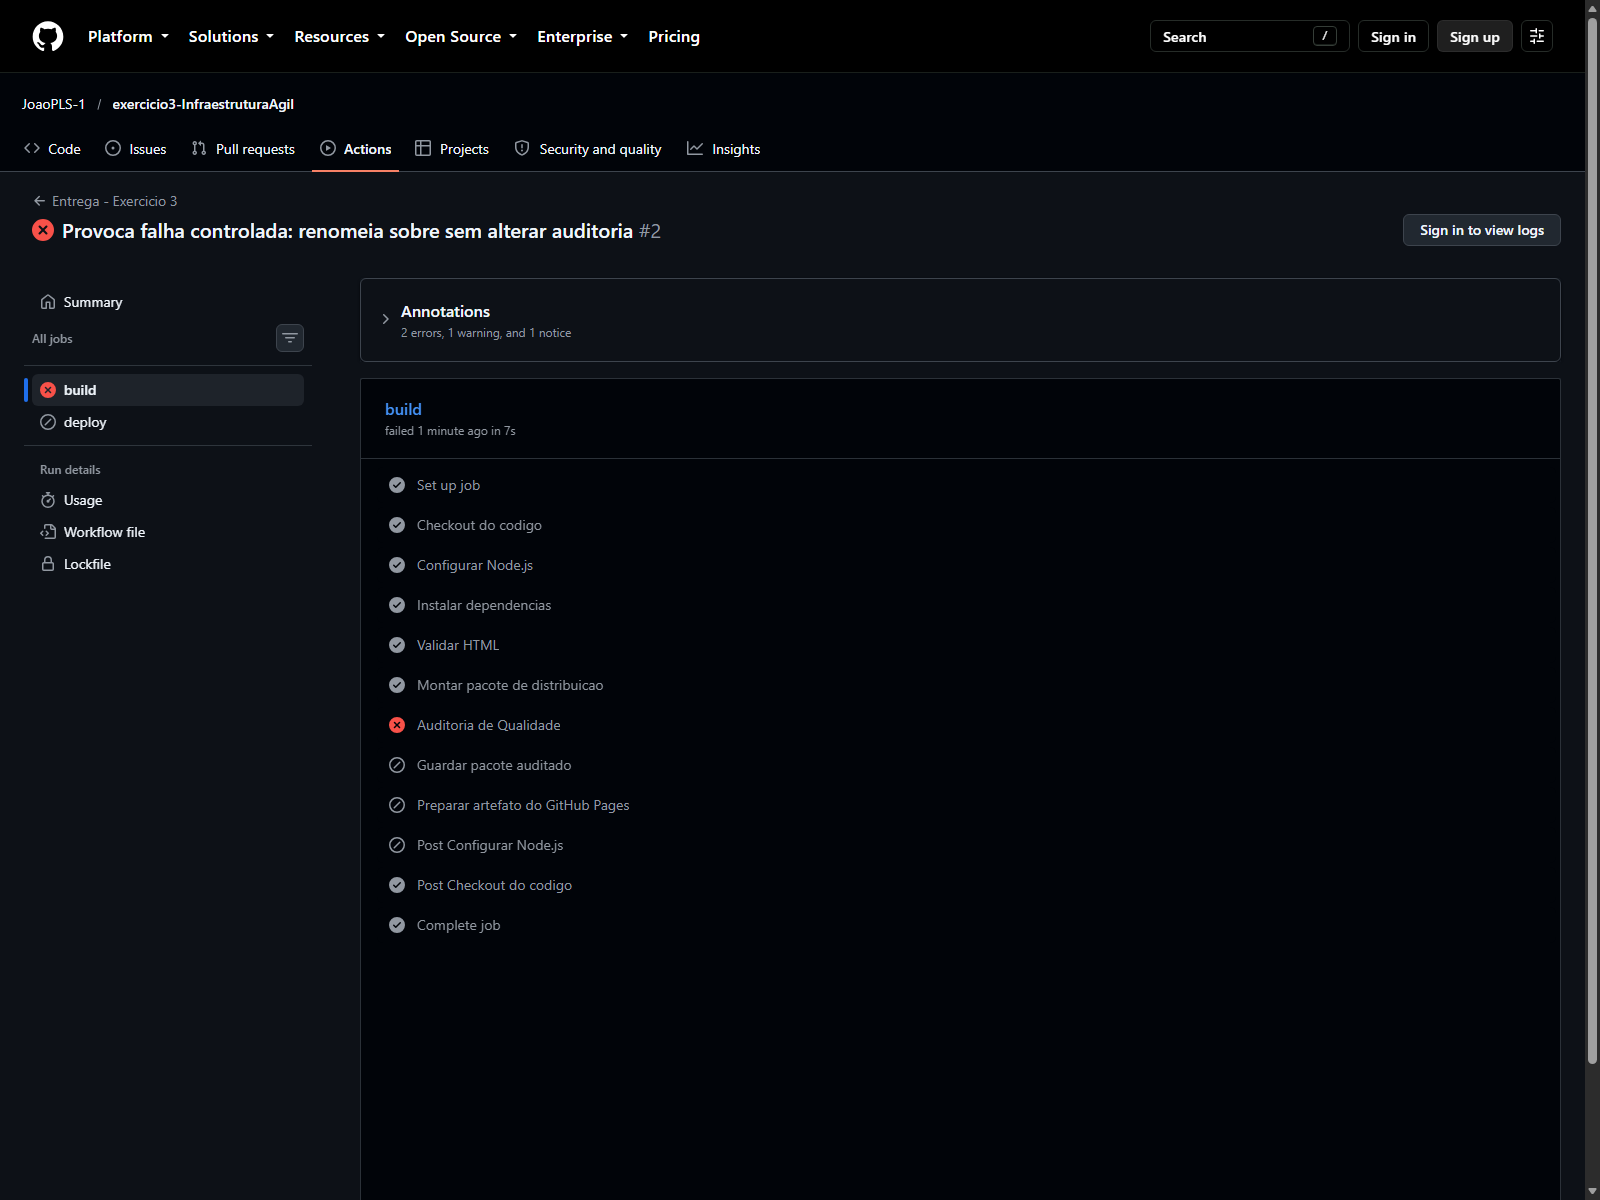
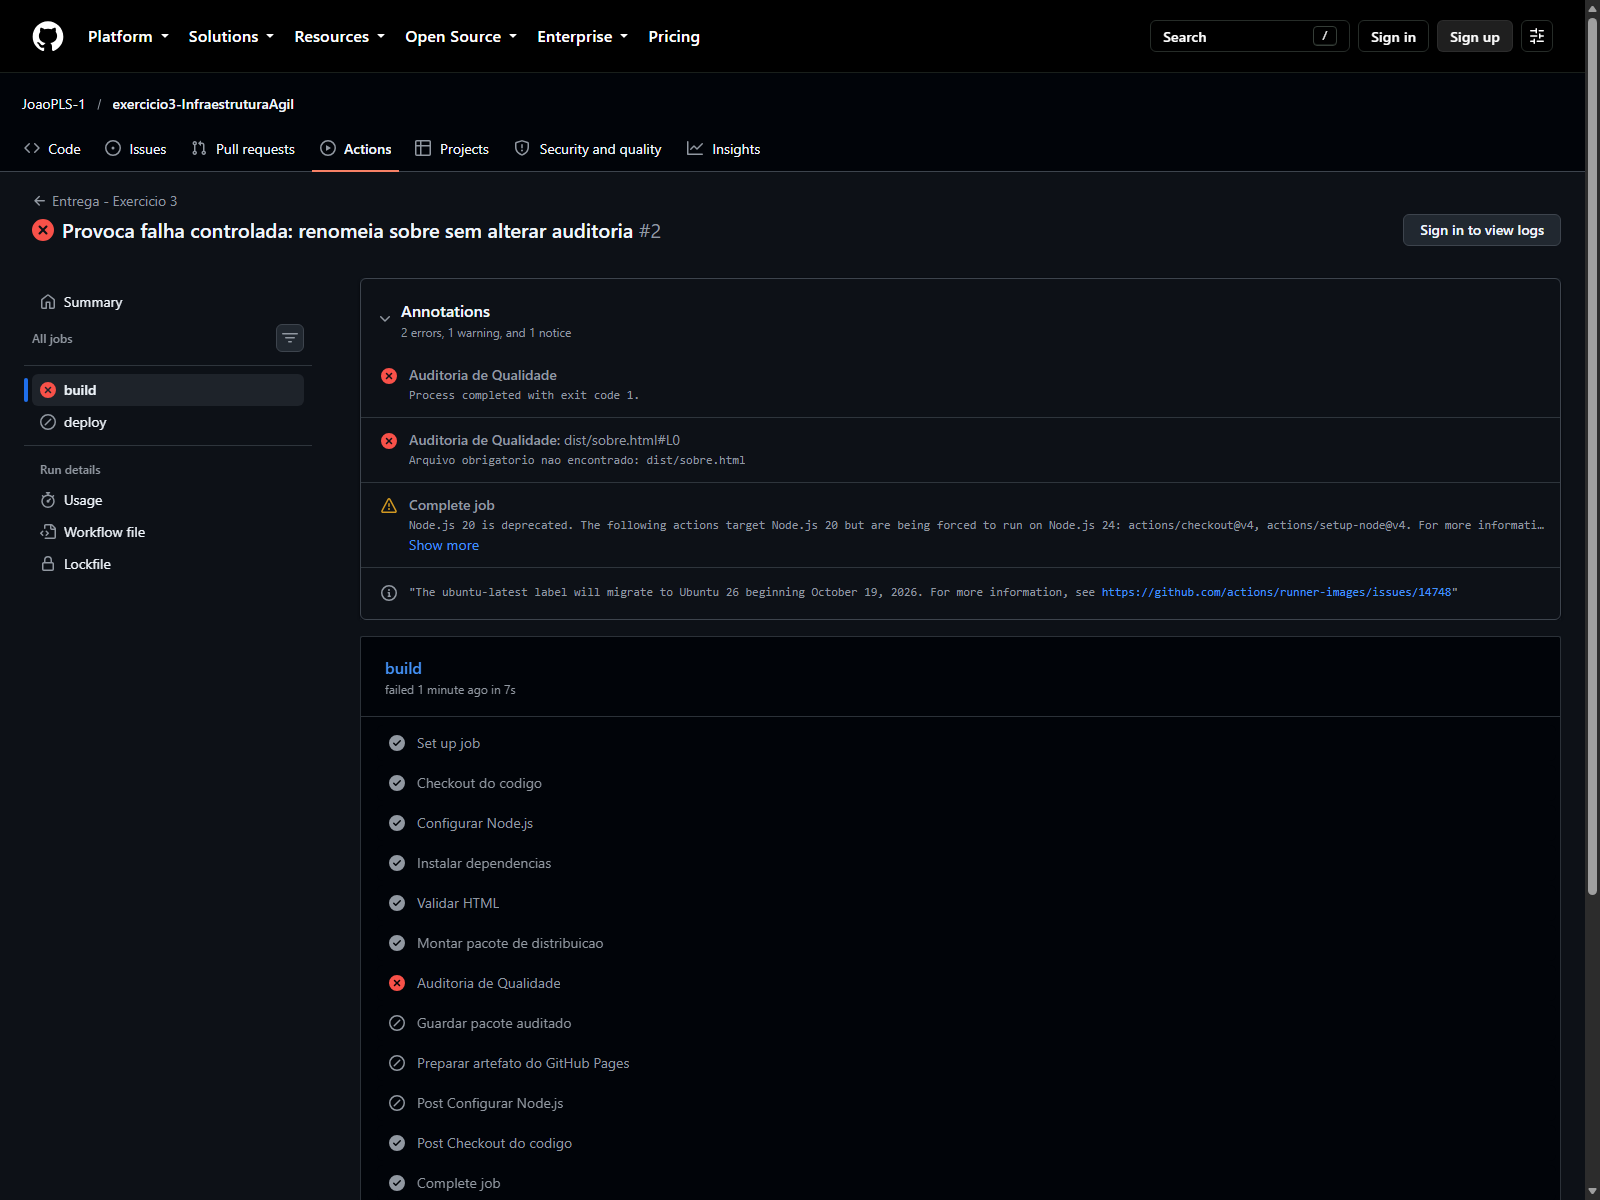
Documenta entrega aprovada e expande erro no print [skip ci]

diff --git a/README.md b/README.md
@@ -24,7 +24,7 @@ O histórico registra a entrega inicial com `sobre.html`, a renomeação para `q
 - [Entrega inicial aprovada](https://github.com/JoaoPLS-1/exercicio3-InfraestruturaAgil/actions/runs/39514153210).
 - [Falha proposital da auditoria](https://github.com/JoaoPLS-1/exercicio3-InfraestruturaAgil/actions/runs/39514242495): `dist/sobre.html` ausente; deploy ignorado.
 - [Print do erro no GitHub Actions](docs/evidencias/falha-auditoria.png), [log original](docs/evidencias/falha-build.log) e [resultado dos jobs](docs/evidencias/falha-jobs.json).
-- A correção troca o arquivo esperado por `quem-somos.html`; a execução final será vinculada após confirmação.
+- [Correção aprovada e deploy concluído](https://github.com/JoaoPLS-1/exercicio3-InfraestruturaAgil/actions/runs/39514390311): auditoria atualizada para `quem-somos.html`, com todos os jobs aprovados.
 
 Somente o print obrigatório da falha foi capturado. Os logs e metadados foram obtidos da API do GitHub, e a imagem mostra a página real do job com erro.
 
@@ -35,3 +35,9 @@ Somente o print obrigatório da falha foi capturado. Os logs e metadados foram o
 - O artefato `distribuicao` contém somente os HTMLs, `assets/` e `css/`; arquivos de desenvolvimento e evidências não são publicados no site.
 
 Os arquivos anteriores em `docs/` são registros da atividade anterior e não constituem evidência deste exercício.
+## Verificações realizadas
+
+- HTMLHint: três páginas aprovadas, sem erros.
+- Edge em modo headless: início, quem somos e contato carregados localmente.
+- GitHub Pages: páginas finais, CSS e SVG acessíveis com HTTP 200.
+- Teste de falha real: auditoria vermelha e deploy bloqueado; correção posterior com entrega verde.
